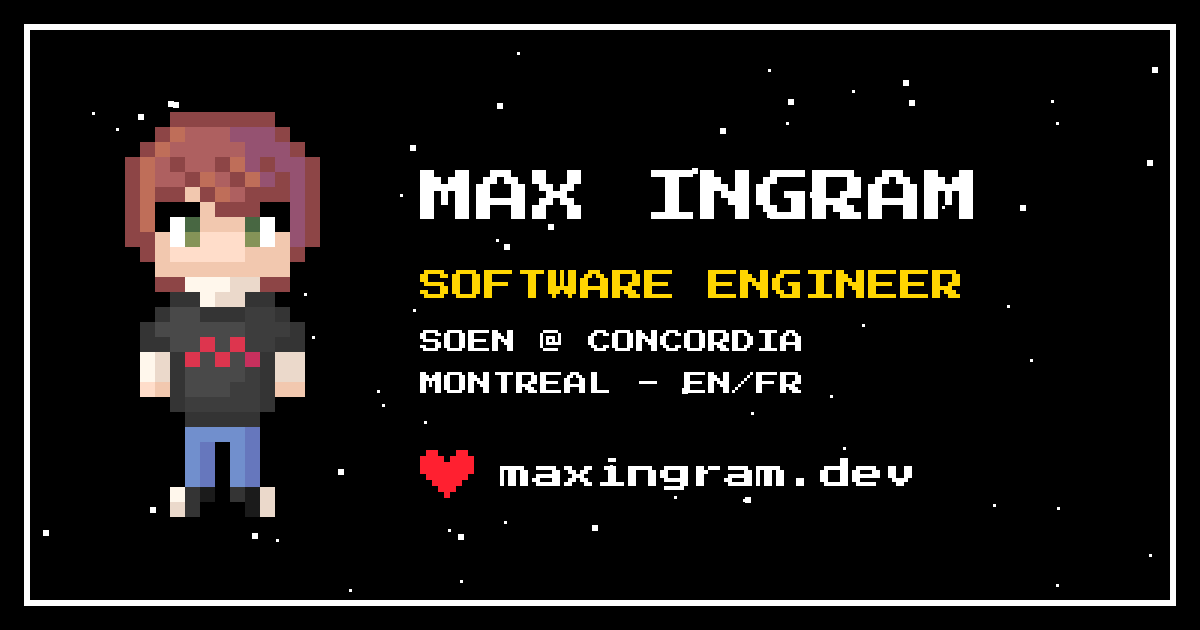
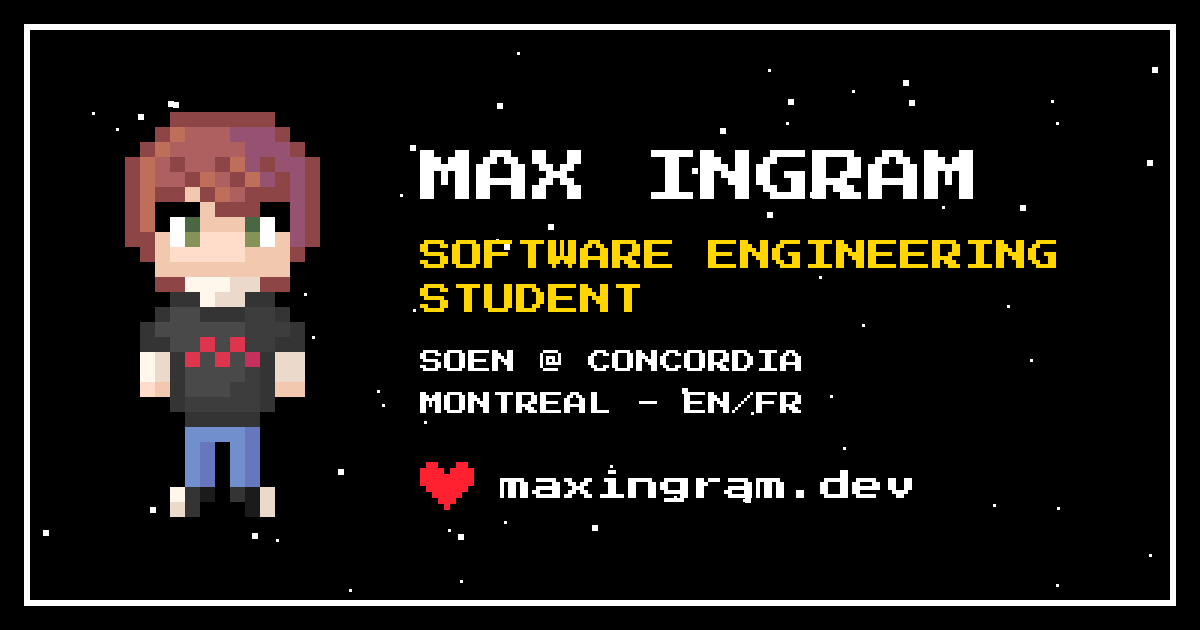
Change tagline to Software Engineering Student

Changed region(s): [[0.3392, 0.2111, 0.8942, 0.6635], [0.3392, 0.6937, 0.7708, 0.8143]]

diff --git a/public/index.html b/public/index.html
@@ -3,7 +3,7 @@
 <head>
   <meta charset="utf-8" />
   <meta name="viewport" content="width=device-width, initial-scale=1, viewport-fit=cover" />
-  <title>Max Ingram — Software Engineer</title>
+  <title>Max Ingram — Software Engineering Student</title>
   <meta name="description" content="Max Ingram: Software Engineering student at Concordia University in Montreal. Projects, game jams, robots and a retro RPG you can explore. Bilingual EN/FR." />
   <meta name="theme-color" content="#000000" />
   <meta name="color-scheme" content="dark" />
@@ -11,12 +11,12 @@
 
   <meta property="og:type" content="website" />
   <meta property="og:url" content="https://maxingram.dev/" />
-  <meta property="og:title" content="Max Ingram — Software Engineer" />
+  <meta property="og:title" content="Max Ingram — Software Engineering Student" />
   <meta property="og:description" content="SOEN student at Concordia, Montreal. Explore my projects, quest log and hobbies in a retro RPG portfolio." />
-  <meta property="og:image" content="https://maxingram.dev/images/og-image.png" />
+  <meta property="og:image" content="https://maxingram.dev/images/og-image.png?v=2" />
   <meta property="og:image:width" content="1200" />
   <meta property="og:image:height" content="630" />
-  <meta property="og:image:alt" content="Pixel art of Max Ingram next to the text Max Ingram, Software Engineer" />
+  <meta property="og:image:alt" content="Pixel art of Max Ingram next to the text Max Ingram, Software Engineering Student" />
   <meta name="twitter:card" content="summary_large_image" />
 
   <link rel="icon" type="image/png" sizes="32x32" href="/images/favicon.png?v=2" />

diff --git a/scripts/build-images.py b/scripts/build-images.py
@@ -167,13 +167,14 @@ def build_og(avatar):
     av = up(avatar, 15)
     og.paste(av, (110, (H - av.height) // 2), av)
     x = 420
-    pixel_text(og, (x, 170), "MAX INGRAM", 7, WHITE)
-    pixel_text(og, (x, 270), "SOFTWARE ENGINEER", 4, YELLOW)
-    pixel_text(og, (x, 330), "SOEN @ CONCORDIA", 3, WHITE)
-    pixel_text(og, (x, 372), "MONTREAL - EN/FR", 3, WHITE)
+    pixel_text(og, (x, 150), "MAX INGRAM", 7, WHITE)
+    pixel_text(og, (x, 240), "SOFTWARE ENGINEERING", 4, YELLOW)
+    pixel_text(og, (x, 284), "STUDENT", 4, YELLOW)
+    pixel_text(og, (x, 350), "SOEN @ CONCORDIA", 3, WHITE)
+    pixel_text(og, (x, 392), "MONTREAL - EN/FR", 3, WHITE)
     h = up(grid_to_image(HEART, RED), 6)
-    og.paste(h, (x, 450), h)
-    pixel_text(og, (x + 80, 458), "maxingram.dev", 4, WHITE)
+    og.paste(h, (x, 462), h)
+    pixel_text(og, (x + 80, 470), "maxingram.dev", 4, WHITE)
     save_png(og.convert("RGB"), IMG / "og-image.png")
 
 
